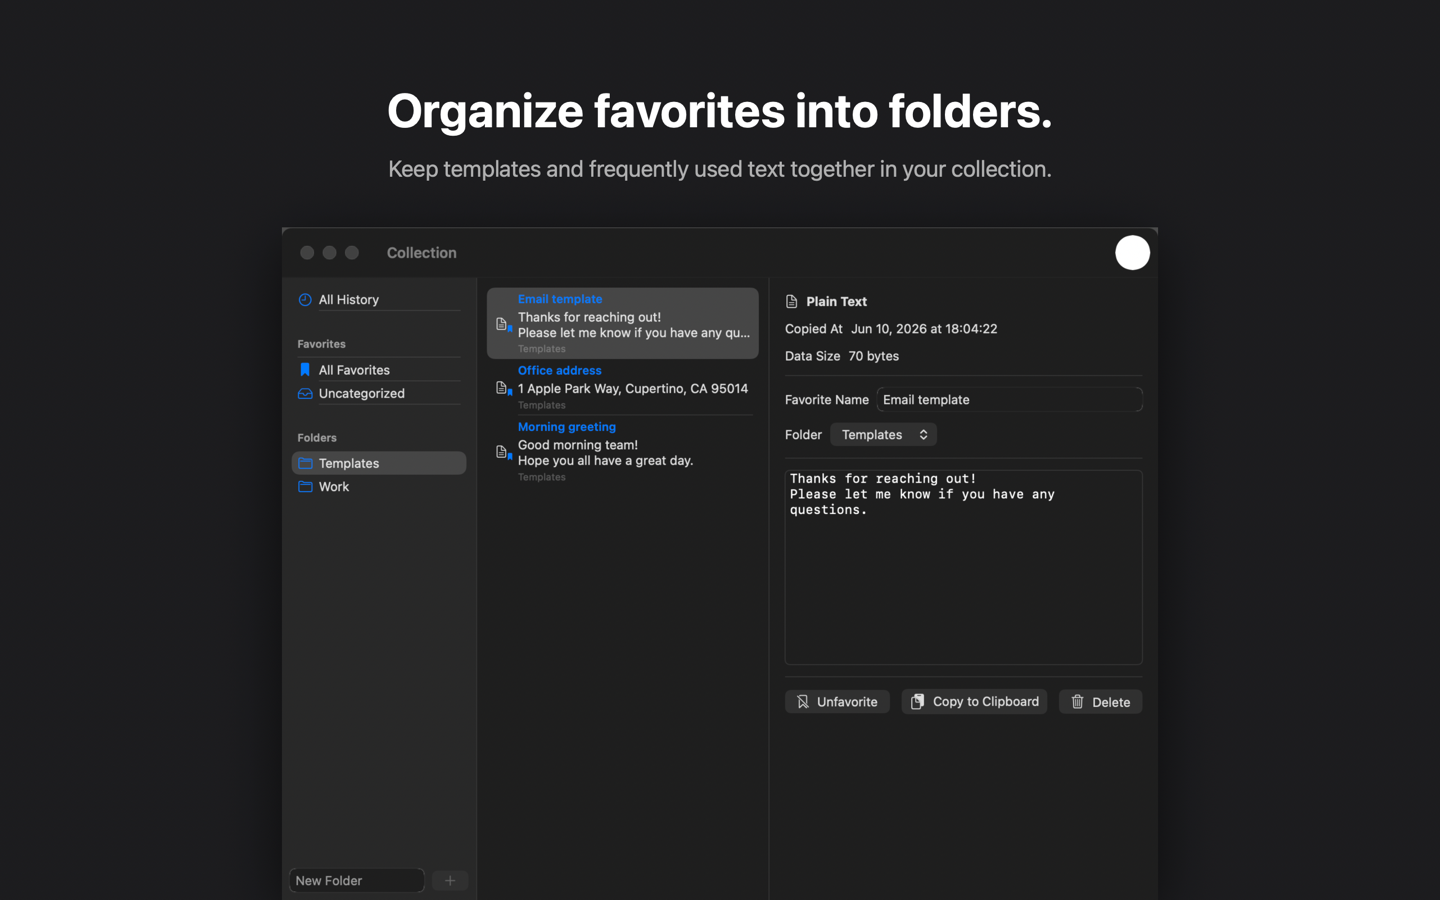
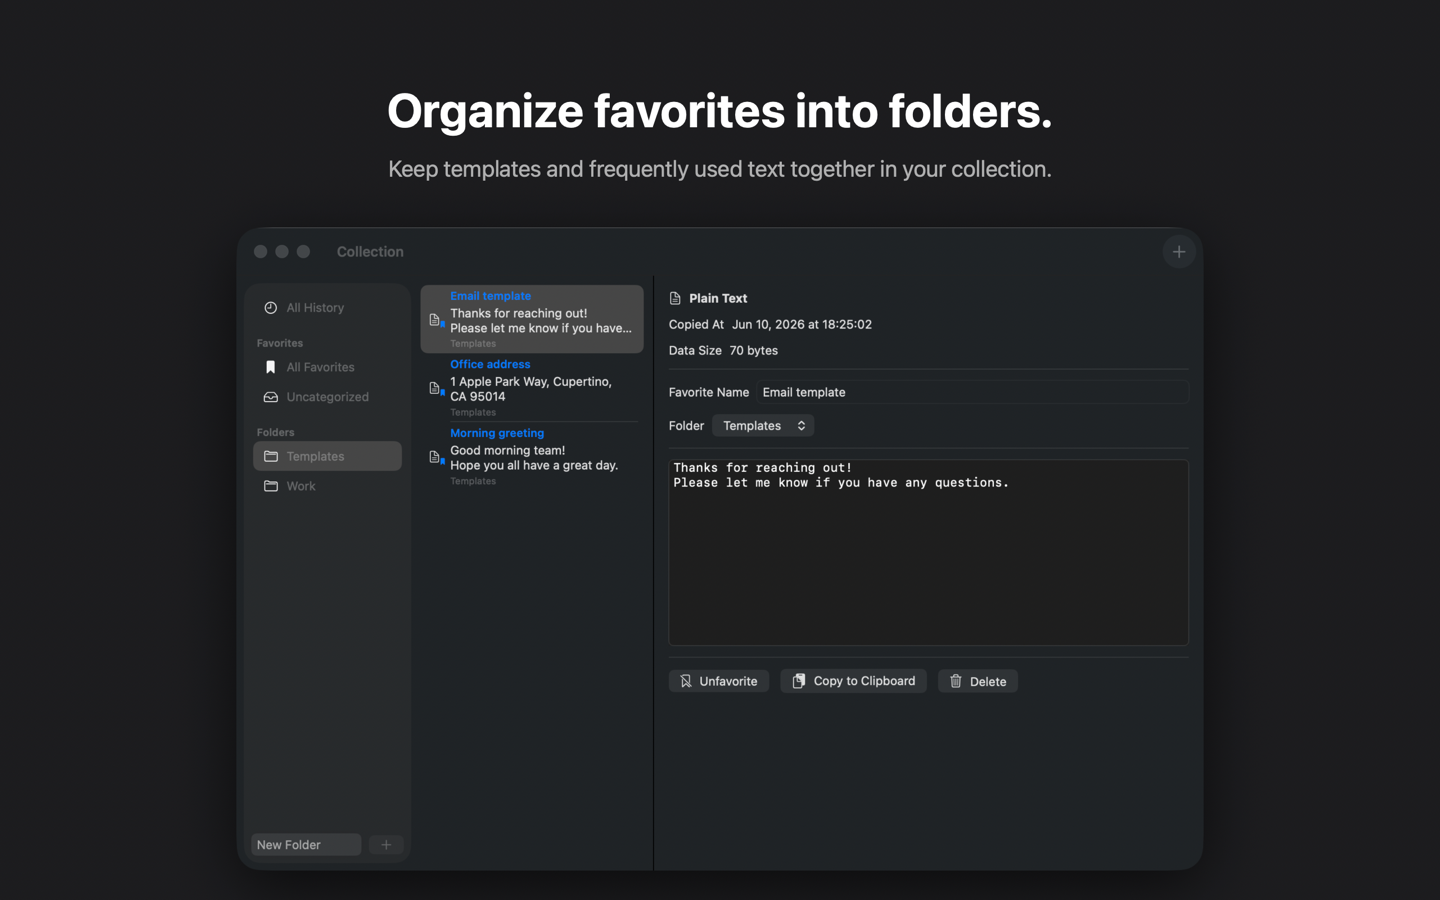
スクリーンショットを実画面 + ScreenCaptureKit 撮影に変更（Liquid Glass 対応）
オフスクリーン描画では macOS 26 の Liquid Glass（サイドバーのガラス表現等）が
写らず実アプリと見た目が乖離するため、ウィンドウを一瞬実画面に表示して
ScreenCaptureKit で撮影する方式に変更。

- 撮影トーン安定のため無地のバッキングウィンドウを背後に敷く
- 初回は実行元への画面収録権限の許可が必要（権限がない場合は案内を表示して終了）
- FavoriteManagerView のスクリーンショット用ハック（HStack 代替レイアウト・
  サイドバーの不透明化・columnVisibility）を撤去し、本来の UI に復元
- 生成画像を本物の見た目（Liquid Glass）で更新

diff --git a/Clipnyx/Clipnyx/ScreenshotRenderer.swift b/Clipnyx/Clipnyx/ScreenshotRenderer.swift
@@ -1,23 +1,34 @@
 #if DEBUG
 import AppKit
+import ScreenCaptureKit
 import SwiftUI
 
-/// マーケティング用スクリーンショットをオフスクリーン描画で生成する（Debug ビルド限定）。
+/// マーケティング用スクリーンショットを生成する（Debug ビルド限定）。
 ///
 /// `Clipnyx --render-screenshots -AppleLanguages '(ja)'` のように起動すると、
-/// 実データに触れずデモデータでペーストパネルとコレクション画面を描画し、
+/// 実データに触れずデモデータでペーストパネルとコレクション画面を一瞬だけ
+/// 実画面に表示し、ScreenCaptureKit で撮影（Liquid Glass 込みの本物の見た目）して、
 /// ヘッドライン付きの 2560×1600（App Store 用）画像などの PNG を書き出して終了する。
-/// サンドボックスのため出力先はコンテナ内の一時ディレクトリ（stdout にパスを出力）。
-/// 通常は scripts/generate_screenshots.sh から使う。
+///
+/// - 初回は「画面収録」権限（システム設定 ▸ プライバシーとセキュリティ）の許可が必要。
+/// - サンドボックスのため出力先はコンテナ内の一時ディレクトリ（stdout にパスを出力）。
+/// - 通常は scripts/generate_screenshots.sh から使う。
 @MainActor
 enum ScreenshotRenderer {
     /// `--render-screenshots` 付きで起動されたときだけ実行し、true を返す
     static func runIfRequested() -> Bool {
         guard CommandLine.arguments.contains("--render-screenshots") else { return false }
 
-        // サイドバー等の vibrancy をアクティブ状態で描画させるため accessory + activate にする
         NSApplication.shared.setActivationPolicy(.accessory)
         NSApplication.shared.activate(ignoringOtherApps: true)
+        NSRunningApplication.current.activate(options: [.activateIgnoringOtherApps])
+
+        guard CGPreflightScreenCaptureAccess() else {
+            CGRequestScreenCaptureAccess()
+            print("SCREENSHOTS_ERROR: 画面収録の権限が必要です。")
+            print("システム設定 ▸ プライバシーとセキュリティ ▸ 画面収録とシステムオーディオ録音 で Clipnyx を許可してから再実行してください。")
+            exit(1)
+        }
 
         let outDir = URL(fileURLWithPath: NSTemporaryDirectory(), isDirectory: true)
             .appendingPathComponent("clipnyx-screenshots", isDirectory: true)
@@ -28,6 +39,9 @@ enum ScreenshotRenderer {
 
         for dark in [false, true] {
             let style = dark ? "dark" : "light"
+            // Liquid Glass が背後の画面を透かすため、無地のバッキングウィンドウを敷いて
+            // 撮影結果のトーンを安定させる
+            let backing = makeBackingWindow(dark: dark)
 
             let panel = renderPanel(japanese: isJapanese, dark: dark)
             write(panel, to: outDir.appendingPathComponent("panel-\(lang)-\(style).png"))
@@ -57,6 +71,8 @@ enum ScreenshotRenderer {
                 ),
                 to: outDir.appendingPathComponent("marketing-collection-\(lang)-\(style).png")
             )
+
+            backing.orderOut(nil)
         }
 
         print("SCREENSHOTS_DIR: \(outDir.path)")
@@ -73,11 +89,30 @@ enum ScreenshotRenderer {
             onDismiss: {},
             onPaste: {}
         ))
-        return capture(hosting, size: NSSize(width: 420, height: 560), dark: dark, settle: 0.8) { window in
-            // PreferenceKey ベースで確定した内容高さにウィンドウを合わせる
-            let height = min(max(hosting.fittingSize.height, 200), 560)
-            window.setContentSize(NSSize(width: 420, height: height))
-        }
+
+        let window = KeyableWindow(
+            contentRect: NSRect(origin: .zero, size: NSSize(width: 420, height: 560)),
+            styleMask: [.borderless],
+            backing: .buffered,
+            defer: false
+        )
+        window.appearance = NSAppearance(named: dark ? .darkAqua : .aqua)
+        window.backgroundColor = .clear
+        window.isOpaque = false
+        window.hasShadow = false
+        window.contentView = hosting
+        centerOnScreen(window)
+        window.makeKeyAndOrderFront(nil)
+
+        pumpRunLoop(seconds: 0.8)
+        // PreferenceKey ベースで確定した内容高さにウィンドウを合わせる
+        let height = min(max(hosting.fittingSize.height, 200), 560)
+        window.setContentSize(NSSize(width: 420, height: height))
+        pumpRunLoop(seconds: 0.4)
+
+        let image = captureWindow(window)
+        window.orderOut(nil)
+        return image
     }
 
     // MARK: - Collection Rendering
@@ -85,11 +120,8 @@ enum ScreenshotRenderer {
     private static func renderCollection(japanese: Bool, dark: Bool) -> NSImage {
         let demo = demoData(japanese: japanese)
         let manager = ClipboardManager(previewItems: demo.items, previewFolders: demo.folders)
-        let size = NSSize(width: 1040, height: 640)
 
-        // NavigationSplitView はビューコントローラ階層がないとサイドバーが
-        // オーバーレイモードに張り付くため、実アプリと同じく
-        // NSWindow(contentViewController: NSHostingController(...)) で構築する
+        // 実アプリと同じく NSWindow(contentViewController:) で構築する
         let controller = NSHostingController(rootView: FavoriteManagerView(
             clipboardManager: manager,
             initialItemId: demo.collectionItemId
@@ -98,102 +130,95 @@ enum ScreenshotRenderer {
         window.styleMask = [.titled, .closable, .resizable]
         window.title = japanese ? "コレクション" : "Collection"
         window.appearance = NSAppearance(named: dark ? .darkAqua : .aqua)
-        window.setContentSize(size)
-        window.setFrameOrigin(NSPoint(x: -10000, y: -10000))
+        window.setContentSize(NSSize(width: 1040, height: 640))
+        centerOnScreen(window)
         window.makeKeyAndOrderFront(nil)
+        // 信号機ボタンをアクティブ色で撮るため、アプリのアクティブ化を粘る
+        NSApplication.shared.activate(ignoringOtherApps: true)
+        window.makeMain()
 
         // initialItemId の選択反映（onAppear → 0.05 秒遅延）を待ってから撮る
         pumpRunLoop(seconds: 1.5)
-        let frameView = window.contentView?.superview ?? controller.view
-        convertVisualEffectsToWithinWindow(in: frameView)
-        pumpRunLoop(seconds: 0.3)
 
-        if ProcessInfo.processInfo.environment["CLIPNYX_DUMP_HIERARCHY"] != nil {
-            var dump = ""
-            dumpHierarchy(frameView, into: &dump)
-            try? dump.write(
-                to: URL(fileURLWithPath: NSTemporaryDirectory()).appendingPathComponent("clipnyx-hierarchy.txt"),
-                atomically: true, encoding: .utf8
-            )
-        }
-
-        let bounds = frameView.bounds
-        guard let rep = frameView.bitmapImageRepForCachingDisplay(in: bounds) else {
-            fatalError("Failed to create bitmap rep for collection")
-        }
-        frameView.cacheDisplay(in: bounds, to: rep)
+        let image = captureWindow(window)
         window.orderOut(nil)
-
-        let image = NSImage(size: bounds.size)
-        image.addRepresentation(rep)
         return image
     }
 
-    // MARK: - Offscreen Capture
+    // MARK: - On-screen Capture (ScreenCaptureKit)
 
     private final class KeyableWindow: NSWindow {
         override var canBecomeKey: Bool { true }
         override var canBecomeMain: Bool { true }
     }
 
-    private static func capture(
-        _ hosting: NSView,
-        size: NSSize,
-        dark: Bool,
-        settle: TimeInterval,
-        adjust: ((NSWindow) -> Void)? = nil
-    ) -> NSImage {
-        let window = KeyableWindow(
-            contentRect: NSRect(origin: .zero, size: size),
-            styleMask: [.borderless],
-            backing: .buffered,
-            defer: false
-        )
-        window.appearance = NSAppearance(named: dark ? .darkAqua : .aqua)
-        window.backgroundColor = .clear
-        window.isOpaque = false
-        window.contentView = hosting
-        window.setFrameOrigin(NSPoint(x: -10000, y: -10000))
-        window.makeKeyAndOrderFront(nil)
+    private static func centerOnScreen(_ window: NSWindow) {
+        guard let screen = NSScreen.main else { return }
+        let frame = window.frame
+        window.setFrameOrigin(NSPoint(
+            x: screen.visibleFrame.midX - frame.width / 2,
+            y: screen.visibleFrame.midY - frame.height / 2
+        ))
+    }
 
-        pumpRunLoop(seconds: settle)
-        if let adjust {
-            adjust(window)
-            pumpRunLoop(seconds: 0.4)
+    /// 撮影トーン安定用の無地ウィンドウ（対象ウィンドウの背後に敷く）
+    private static func makeBackingWindow(dark: Bool) -> NSWindow {
+        let screen = NSScreen.main?.frame ?? NSRect(x: 0, y: 0, width: 1920, height: 1200)
+        let window = NSWindow(contentRect: screen, styleMask: [.borderless], backing: .buffered, defer: false)
+        window.backgroundColor = dark
+            ? NSColor(calibratedRed: 0.11, green: 0.11, blue: 0.12, alpha: 1)
+            : NSColor(calibratedWhite: 0.93, alpha: 1)
+        window.level = .normal
+        window.ignoresMouseEvents = true
+        window.orderFront(nil)
+        return window
+    }
+
+    /// 画面上のウィンドウを ScreenCaptureKit で撮影する（Liquid Glass 込み）
+    private static func captureWindow(_ window: NSWindow) -> NSImage {
+        let windowID = CGWindowID(window.windowNumber)
+        let scale = window.backingScaleFactor
+        let size = window.frame.size
+
+        var captured: CGImage?
+        var failure: String?
+        var done = false
+
+        Task {
+            do {
+                let content = try await SCShareableContent.excludingDesktopWindows(false, onScreenWindowsOnly: true)
+                guard let scWindow = content.windows.first(where: { $0.windowID == windowID }) else {
+                    failure = "window \(windowID) not found in shareable content"
+                    done = true
+                    return
+                }
+                let filter = SCContentFilter(desktopIndependentWindow: scWindow)
+                let config = SCStreamConfiguration()
+                config.width = Int(size.width * scale)
+                config.height = Int(size.height * scale)
+                config.backgroundColor = .clear
+                config.ignoreShadowsSingleWindow = true
+                config.showsCursor = false
+                config.captureResolution = .best
+                captured = try await SCScreenshotManager.captureImage(contentFilter: filter, configuration: config)
+            } catch {
+                failure = String(describing: error)
+            }
+            done = true
+        }
+        while !done {
+            pumpRunLoop(seconds: 0.05)
         }
 
-        let bounds = hosting.bounds
-        guard let rep = hosting.bitmapImageRepForCachingDisplay(in: bounds) else {
-            fatalError("Failed to create bitmap rep")
+        guard let cgImage = captured else {
+            fatalError("Failed to capture window: \(failure ?? "unknown")")
         }
-        hosting.cacheDisplay(in: bounds, to: rep)
-        window.orderOut(nil)
-
-        let image = NSImage(size: bounds.size)
-        image.addRepresentation(rep)
-        return image
+        // ポイントサイズを維持した 2x 画像として包む
+        return NSImage(cgImage: cgImage, size: size)
     }
 
     private static func pumpRunLoop(seconds: TimeInterval) {
         RunLoop.main.run(until: Date().addingTimeInterval(seconds))
-    }
-
-    private static func dumpHierarchy(_ view: NSView, indent: String = "", into out: inout String) {
-        let f = view.frame
-        out += "\(indent)\(type(of: view)) frame=(\(Int(f.origin.x)),\(Int(f.origin.y)),\(Int(f.width)),\(Int(f.height))) hidden=\(view.isHidden)\n"
-        for sub in view.subviews {
-            dumpHierarchy(sub, indent: indent + "  ", into: &out)
-        }
-    }
-
-    private static func convertVisualEffectsToWithinWindow(in view: NSView) {
-        if let effectView = view as? NSVisualEffectView {
-            effectView.blendingMode = .withinWindow
-            effectView.state = .active
-        }
-        for subview in view.subviews {
-            convertVisualEffectsToWithinWindow(in: subview)
-        }
     }
 
     // MARK: - Marketing Composition (2560×1600 = 1280×800 @2x)
@@ -239,7 +264,6 @@ enum ScreenshotRenderer {
                     .resizable()
                     .scaledToFit()
                     .frame(width: contentWidth)
-                    .clipShape(RoundedRectangle(cornerRadius: 12))
                     .shadow(color: .black.opacity(dark ? 0.6 : 0.22), radius: 28, y: 14)
                     .padding(.top, 24)
             }

diff --git a/Clipnyx/Clipnyx/Views/FavoriteManagerView.swift b/Clipnyx/Clipnyx/Views/FavoriteManagerView.swift
@@ -5,7 +5,6 @@ struct FavoriteManagerView: View {
     var initialItemId: UUID? = nil
     @State var selectedFolderFilter: FavoriteFilter = .allHistory
     @State var selectedItemId: UUID?
-    @State private var columnVisibility: NavigationSplitViewVisibility = .all
     @State private var newFolderName = ""
     @State private var renamingFolderId: UUID?
     @State private var renamingText = ""
@@ -31,26 +30,12 @@ struct FavoriteManagerView: View {
     }
 
     var body: some View {
-        Group {
-            if isScreenshotMode {
-                // Liquid Glass のサイドバーはオフスクリーン描画に写らないため、
-                // スクリーンショット生成時は同じ部品を素の HSplit 風に並べる
-                HStack(spacing: 0) {
-                    sidebar.frame(width: 200)
-                    Divider()
-                    itemList.frame(width: 300)
-                    Divider()
-                    detailArea
-                }
-            } else {
-                NavigationSplitView(columnVisibility: $columnVisibility) {
-                    sidebar
-                } content: {
-                    itemList
-                } detail: {
-                    detailArea
-                }
-            }
+        NavigationSplitView {
+            sidebar
+        } content: {
+            itemList
+        } detail: {
+            detailArea
         }
         .frame(minWidth: 800, minHeight: 500)
         .onAppear {
@@ -87,19 +72,10 @@ struct FavoriteManagerView: View {
 
     // MARK: - Sidebar
 
-    /// スクリーンショット生成時はオフスクリーン描画で vibrancy が黒く写るため、
-    /// サイドバーを不透明スタイルに切り替える（通常起動では常に false）
-    private var isScreenshotMode: Bool {
-        #if DEBUG
-        ProcessInfo.processInfo.arguments.contains("--render-screenshots")
-        #else
-        false
-        #endif
-    }
-
     private var sidebar: some View {
-        styledSidebarList
-            .focusable(!isScreenshotMode)
+        sidebarList
+            .listStyle(.sidebar)
+            .focusable()
             .focused($focusedArea, equals: .sidebar)
             .onDeleteCommand {
                 if case .folder(let id) = selectedFolderFilter {
@@ -133,18 +109,6 @@ struct FavoriteManagerView: View {
                 .padding(8)
             }
             .navigationSplitViewColumnWidth(min: 160, ideal: 180)
-    }
-
-    @ViewBuilder
-    private var styledSidebarList: some View {
-        if isScreenshotMode {
-            sidebarList
-                .listStyle(.inset)
-                .scrollContentBackground(.hidden)
-                .background(Color(nsColor: .underPageBackgroundColor))
-        } else {
-            sidebarList.listStyle(.sidebar)
-        }
     }
 
     private var sidebarList: some View {

diff --git a/CLAUDE.md b/CLAUDE.md
@@ -58,8 +58,10 @@ Clipnyx/Clipnyx/
 
 ## スクリーンショット生成
 - `scripts/generate_screenshots.sh` で LP 用（docs/screenshot-*.png）と App Store 用（fastlane/screenshots/）を自動生成
-- Debug ビルドの `ScreenshotRenderer`（`--render-screenshots` 起動引数、`#if DEBUG`）がデモデータでパネルをオフスクリーン描画。実データには触れない
-- ライト/ダーク × 日英の全バリアントがコンテナ内 tmp に出力される（ダーク版は現状未使用）
+- Debug ビルドの `ScreenshotRenderer`（`--render-screenshots` 起動引数、`#if DEBUG`）がデモデータでパネルとコレクション画面を一瞬実画面に表示し、ScreenCaptureKit で撮影（Liquid Glass 込みの本物の見た目）
+- プレビュー用 ClipboardManager は読み取り専用ストアを使うため**実データには一切触れない**
+- 初回は実行元（ターミナル）への「画面収録」権限の許可が必要。生成中は画面中央にウィンドウが数秒ずつ表示される
+- ライト/ダーク × 日英の全バリアントがコンテナ内 tmp に出力される（履歴パネル + コレクションの2画面）
 
 ## CI/CD
 - **リリース**: `gh workflow run "Release Full (Homebrew)" --ref main` を実行するだけで両エディションがデプロイされる
